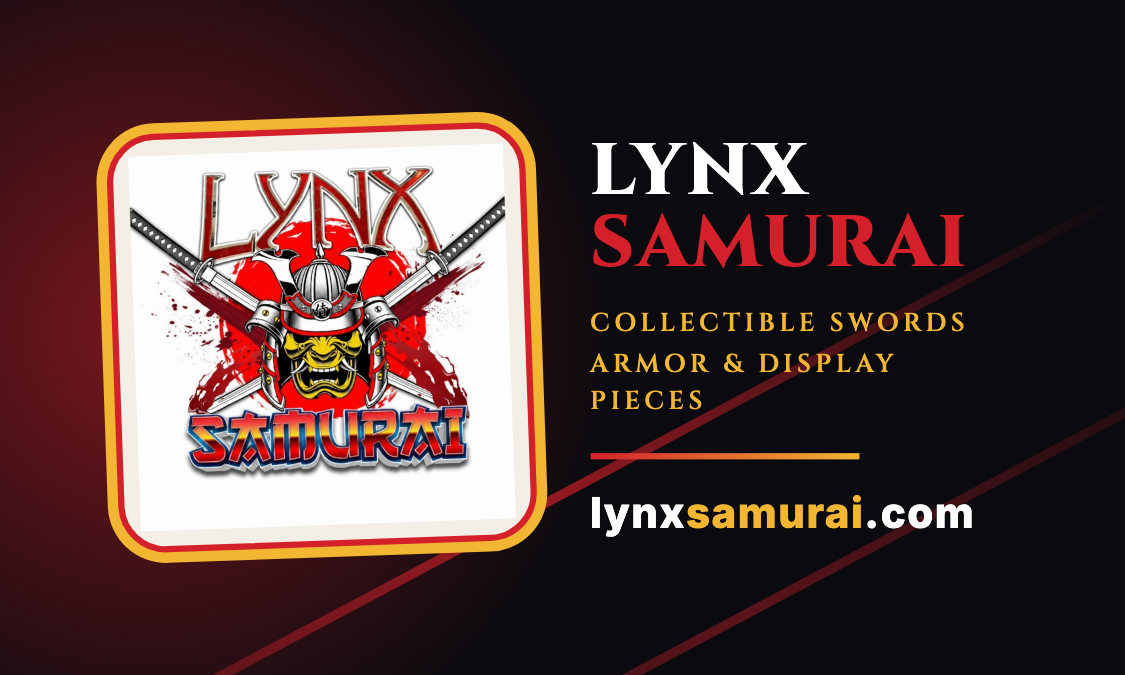
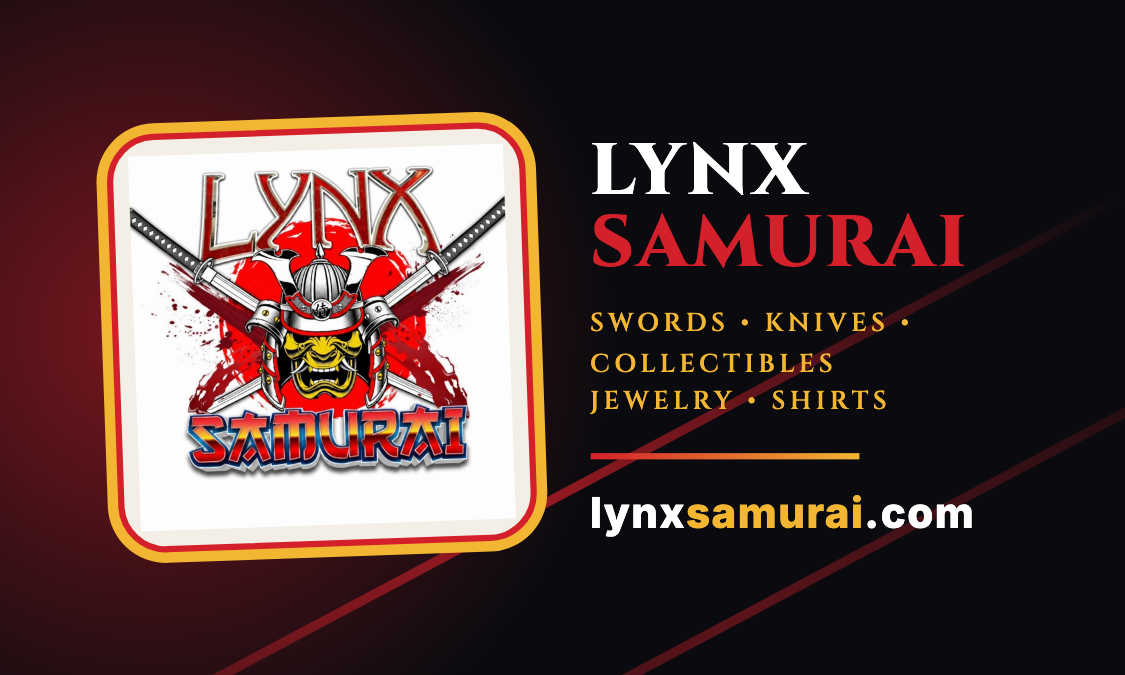
Card wording: swords, knives, collectibles, jewelry, shirts

Changed region(s): [[0.5289, 0.4356, 0.8711, 0.6222]]

diff --git a/print/card-back.html b/print/card-back.html
@@ -23,8 +23,8 @@ html,body{margin:0;padding:0;background:#888}
 .trim{position:absolute;inset:.125in;border:1px dashed rgba(11,11,15,.35);pointer-events:none;display:none}body.preview .trim{display:block}
 </style></head><body><div class="card"><div class="band"></div><div class="band band-b"></div><div class="kanji">侍</div><div class="trim"></div>
 <div class="inner"><div class="left"><div>
-<p class="h">Katanas <span>•</span> Fantasy Blades <span>•</span> Armor</p>
-<p class="lead">Hand-picked collectible swords, daggers, and samurai armor. Reserve a piece or ask what's in stock.</p>
+<p class="h">Swords <span>•</span> Knives <span>•</span> Collectibles</p>
+<p class="lead">Swords, knives, collectibles, jewelry, and shirts you won't find at the mall. Reserve a piece or ask what's in stock.</p>
 <p class="visit"><b>Shop</b> · 135 W King St, Abbottstown, PA 17301<br><b>Hours</b> · Thu – Sat, 12 – 4 pm</p>
 </div><div><p class="url">lynx<span>samurai</span>.com</p><p class="sub">Also at shows &amp; markets across central PA</p></div></div>
 <div class="right"><div class="qrbox"><img src="../assets/qr-site.svg" alt="QR code to lynxsamurai.com"></div><p class="scan">Scan to visit</p></div></div></div></body></html>

diff --git a/print/card-front.html b/print/card-front.html
@@ -20,4 +20,4 @@ html,body{margin:0;padding:0;background:#888}
 .trim{position:absolute;inset:.125in;border:1px dashed rgba(242,182,50,.45);pointer-events:none;display:none}body.preview .trim{display:block}
 </style></head><body><div class="card"><div class="sun"></div><div class="slash s1"></div><div class="slash s2"></div><div class="trim"></div>
 <div class="inner"><div class="logo"><img src="../assets/logo.png" alt="Lynx Samurai logo"></div>
-<div class="txt"><p class="name">LYNX <span>SAMURAI</span></p><p class="tag">Collectible Swords<br>Armor &amp; Display Pieces</p><div class="rule"></div><p class="url">lynx<span>samurai</span>.com</p></div></div></div></body></html>
+<div class="txt"><p class="name">LYNX <span>SAMURAI</span></p><p class="tag">Swords • Knives • Collectibles<br>Jewelry • Shirts</p><div class="rule"></div><p class="url">lynx<span>samurai</span>.com</p></div></div></div></body></html>

diff --git a/print/render_clean.js b/print/render_clean.js
@@ -1,0 +1,1 @@
+const {chromium}=require('@playwright/test');(async()=>{const b=await chromium.launch();for(const side of ['front','back']){const p=await b.newPage({viewport:{width:360,height:216},deviceScaleFactor:2});await p.goto('file:///Users/nick/.openclaw/workspace-focus-nexus-codex/lynx-samurai/print/card-'+side+'.html');await p.waitForTimeout(1500);await p.locator('.card').screenshot({path:'/Users/nick/.openclaw/workspace-focus-nexus-codex/lynx-samurai/print/card-'+side+'-clean.png'});}await b.close();})();
